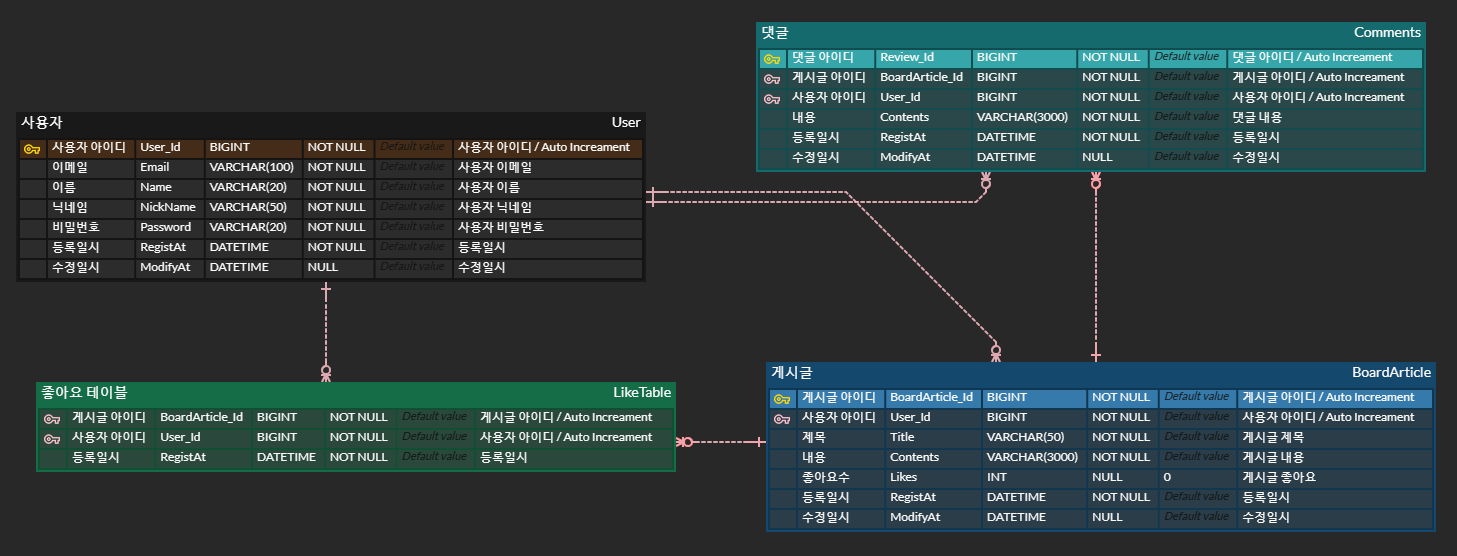
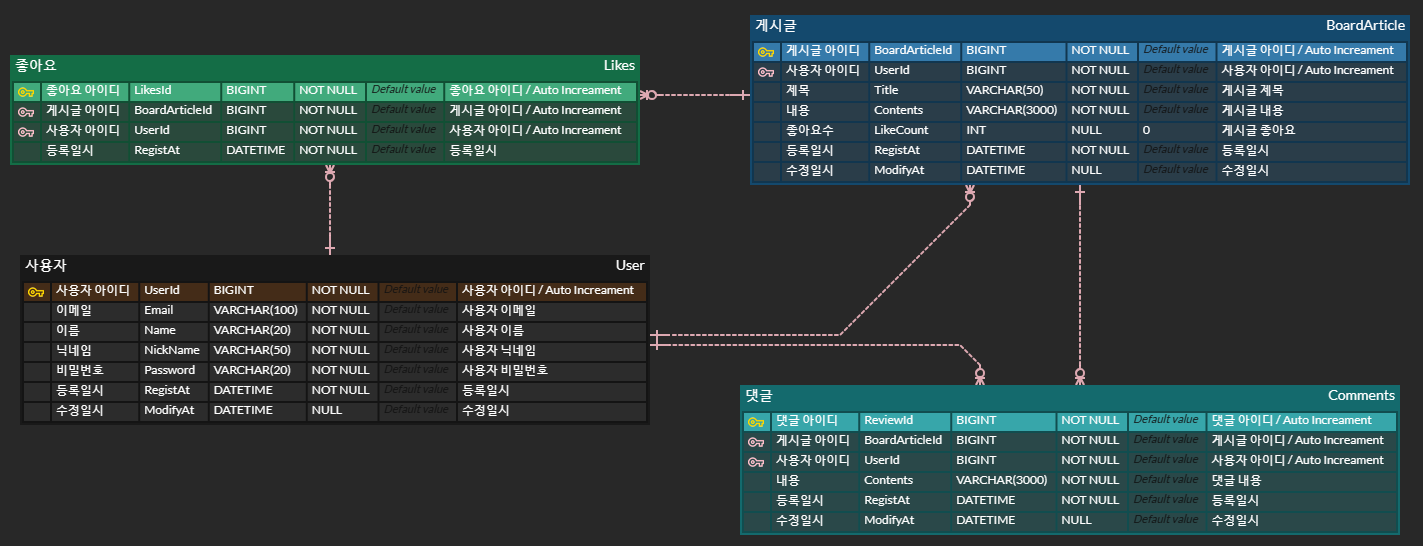
Docs: [005]-DOCS-MODIFY
- CommunityERD 오타 수정, CamelCase 로 맞춤
- README.md 게시판 최신순/좋아요순 기능 부분 구현 설명 추가
- README.md 좋아요/좋아요 취소 기능 부분 구현 설명 추가

diff --git a/README.md b/README.md
@@ -34,6 +34,7 @@
 ### 게시글 조회
 - 게시글 조회는 로그인 관계없이 조회 할 수 있다.
 - 게시글 제목, 작성자, 작성일, 좋아요 횟수 항목이 나타나며, 최신순/좋아요가 많은 순으로 조회할 수 있다.
+- 최신순/좋아요순 정렬 기능은 별도로 인덱스를 생성해 구현한다.
 - [ ] 게시글 조회 기능
 
 ### 해당 게시글 읽기 (= 들어가기)
@@ -50,4 +51,6 @@
 
 ### 좋아요 버튼
 - 해당 게시글을 들어갔을 때 좋아요 버튼을 눌러 갯수를 증가 또는 감소시킬 수 있다.
+- 좋아요 버튼을 누를 시 좋아요 추가, 테이블에 INSERT 한다.
+- 다시 한번 누를시 좋아요 취소에 해당, 테이블에 DELETE 를 한다.
 - [ ] 좋아요 버튼 기능
